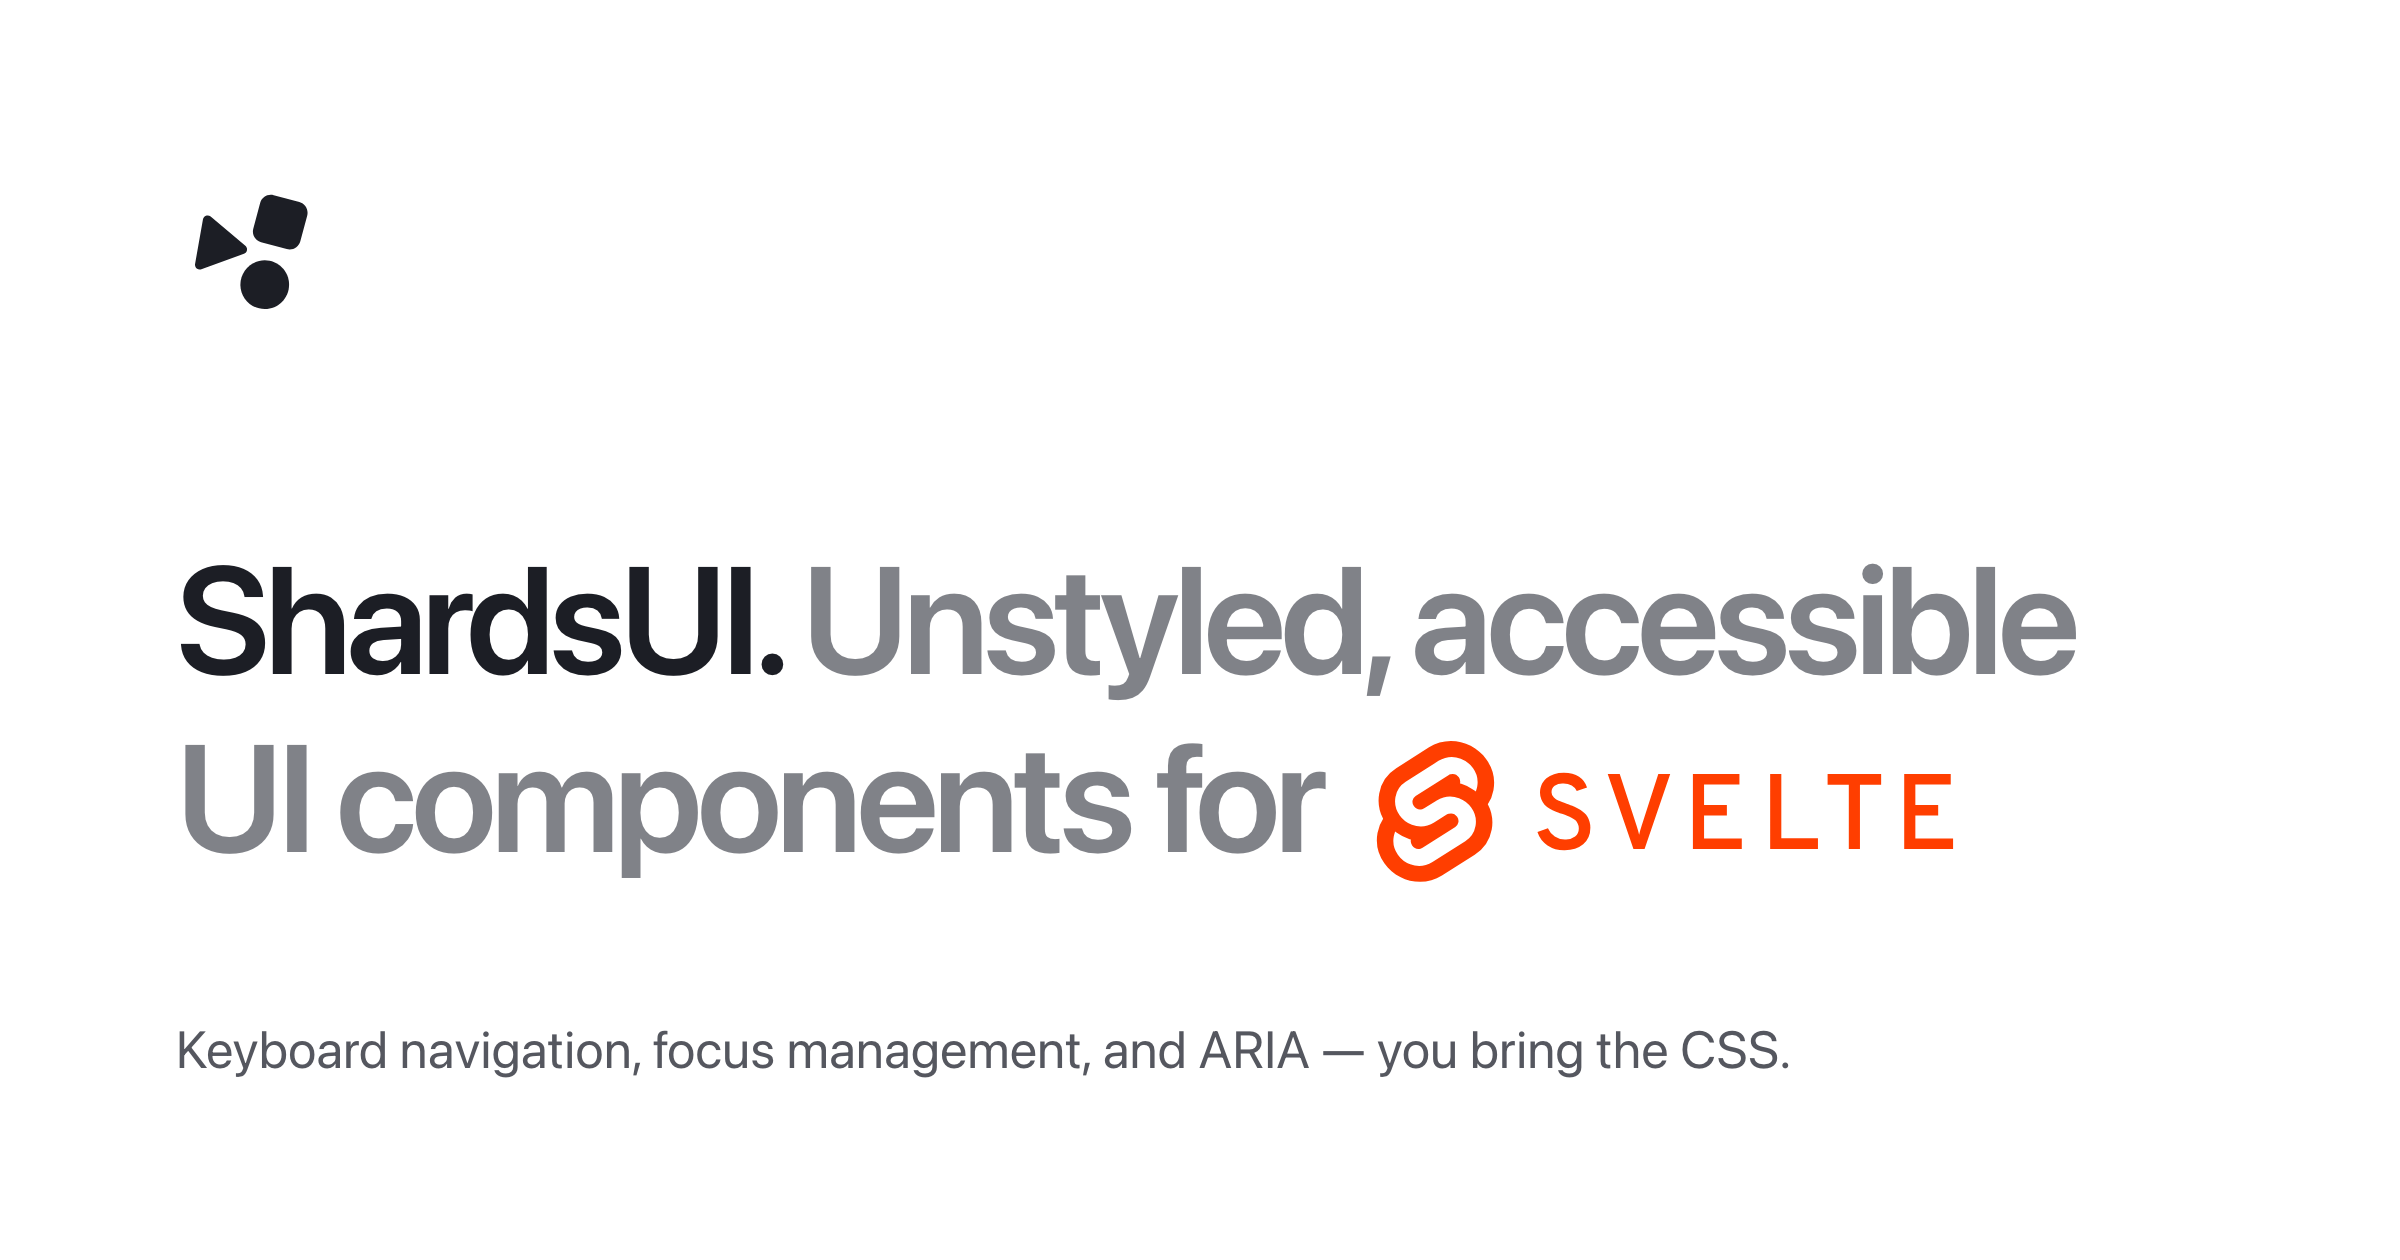
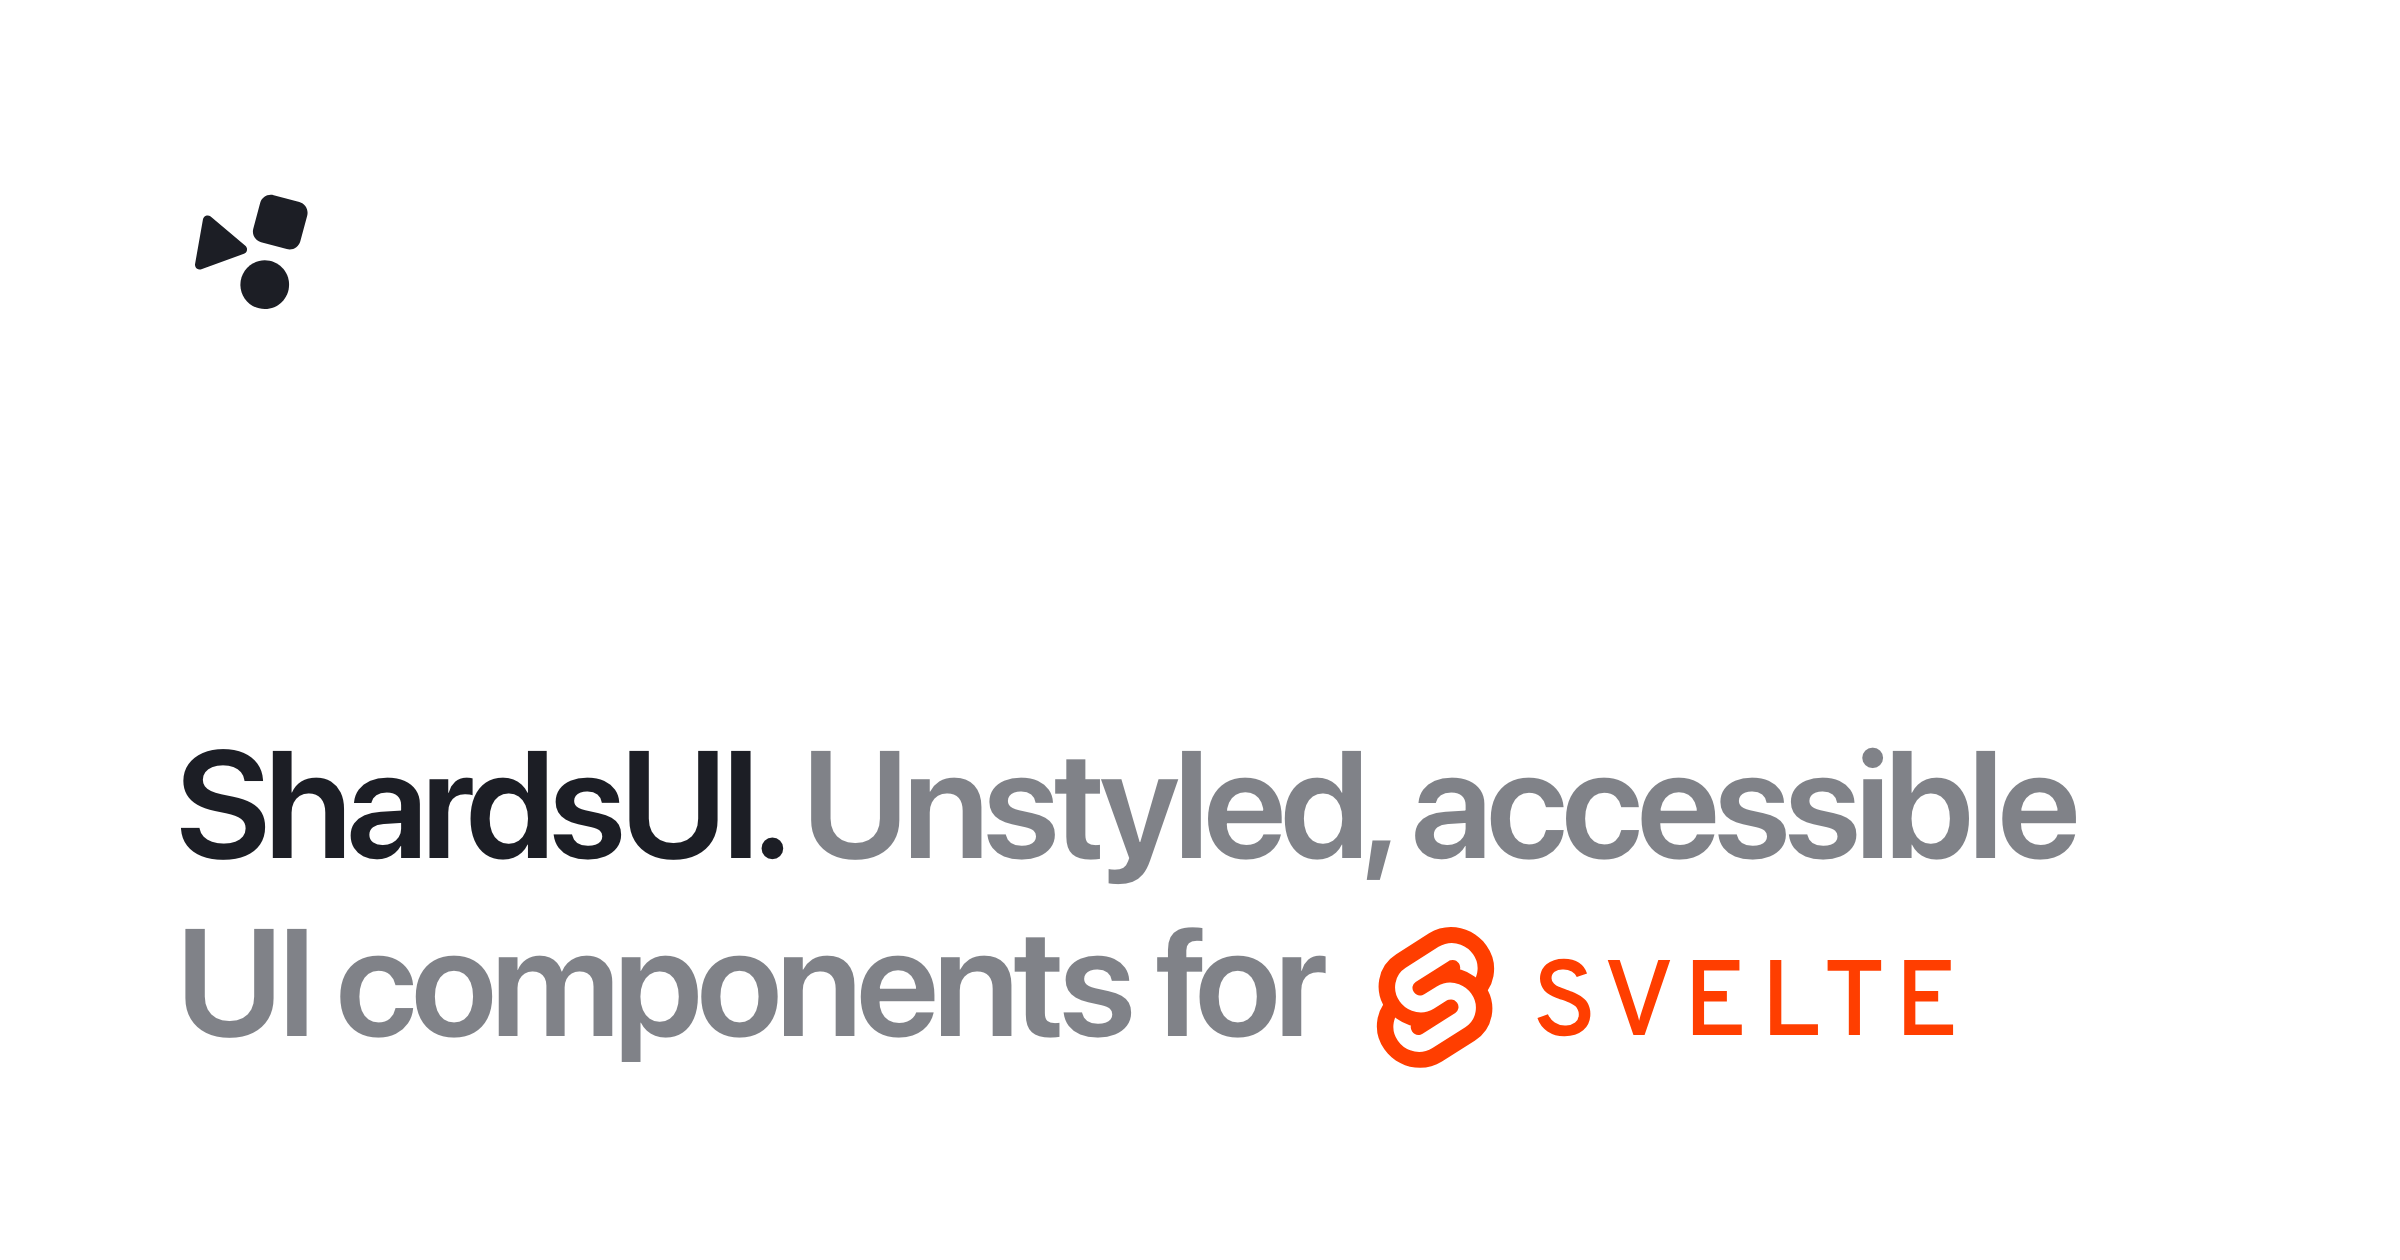
docs(og): remove the tagline

Changed region(s): [[0.0625, 0.5881, 0.875, 0.8667], [0.0625, 0.4333, 0.875, 0.5571]]

diff --git a/docs/scripts/og-image.html b/docs/scripts/og-image.html
@@ -5,7 +5,6 @@
     <style>
       :root {
         --color-gray-500: oklch(12% 7.5% 264deg / 50%);
-        --color-gray-600: oklch(12% 7% 264deg / 67%);
         --color-gray-900: oklch(12% 5% 264deg / 90%);
         --font-sans: ui-sans-serif, system-ui, sans-serif;
       }
@@ -47,14 +46,6 @@
         color: var(--color-gray-900);
       }
 
-      p {
-        margin-top: 56px;
-        font-size: 26px;
-        line-height: 1.4;
-        text-wrap: nowrap;
-        color: var(--color-gray-600);
-      }
-
       .svelte-lockup {
         width: auto;
         height: 1.15em;
@@ -93,7 +84,6 @@
           />
         </svg>
       </h1>
-      <p>Keyboard navigation, focus management, and ARIA — you bring the CSS.</p>
     </div>
   </body>
 </html>
